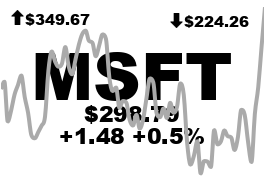
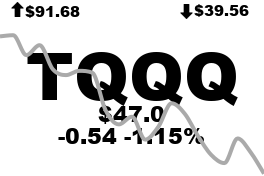
adding back the chart

diff --git a/lib/tick_obj.py b/lib/tick_obj.py
@@ -60,8 +60,9 @@ class TickObject:
     current_symbol_data = None
     directory_font = fontdir
     directory_img = imgsdir
-    def __init__(self) -> None:
-        if HAS_EPD:
+    debug = False
+    def __init__(self,symbols=None) -> None:
+        if HAS_EPD and symbols == None:
             # setup epd
             _epd = EPD()  # get the display
             self.screen_width = _epd.height
@@ -82,7 +83,11 @@ class TickObject:
 
         self.lg_font_size = int(self.screen_height/2)  # large font
         self.sm_font_size = int(self.screen_height/8)  # small font
-        self.symbols = self.get_tickers()
+        if symbols == None:
+            self.symbols = self.get_tickers()
+        else:
+            self.symbols = symbols
+            self.debug = True
     def get_symbol_data(self,symbol:str):
         self.current_symbol_data = get_symbol(symbol=symbol)
         return self.current_symbol_data
@@ -182,24 +187,27 @@ class TickObject:
         next_width = next_width + self.padding        
         d.text((next_width ,next_height-3), low, fill=self.color_text,  font=font)
         # create chart
-        # quickchart(
-        #     width=int(self.screen_width/2),
-        #     height=int(self.screen_height/2),
-        #     dataset=history["Open"],
-        #     background_clr=f"rgb({bg_clr},{bg_clr},{bg_clr})",
-        #     line_clr=f"rgb({chart_clr},{chart_clr},{chart_clr})",
-        #     saved_image_path=os.path.join(imgsdir, "chart.png"))
-        # # get chart image
-        # # flip this image since we want the powersource on the bottom
-        # chart = Image.open(os.path.join(imgsdir, "chart.png"))
+        quickchart(
+            width=int(self.screen_width/2),
+            height=int(self.screen_height/2),
+            dataset=history["Open"],
+            background_clr=f"rgb({bg_clr},{bg_clr},{bg_clr})",
+            line_clr=f"rgb({chart_clr},{chart_clr},{chart_clr})",
+            saved_image_path=os.path.join(imgsdir, "chart.png"))
+        # get chart image
+        # flip this image since we want the powersource on the bottom
+        chart = Image.open(os.path.join(imgsdir, "chart.png"))
         if self.rotate_img:
             # chart = chart.transpose(PIL.Image.ROTATE_180)
             im = back_im.transpose(PIL.Image.ROTATE_180)
         # chart.putalpha(65)
         back_im = im.copy()
-        # back_im.paste(chart,mask=chart)
+        back_im.paste(chart,mask=chart)
         
-        back_im.save(os.path.join(imgsdir, "quote.png"), quality=95)
+        if self.debug:
+            back_im.save(os.path.join(imgsdir, f"{symbol}.png"), quality=95)
+        else:
+            back_im.save(os.path.join(imgsdir, "quote.png"), quality=95)
 
         logging.info(f"Display quote {symbol}")
         if self.epd:

diff --git a/lib/tick.py b/lib/tick.py
@@ -1,5 +1,5 @@
 from .tick_obj import TickObject
 
 class Tick(TickObject):
-    def __init__(self) -> None:
-        super().__init__()
+    def __init__(self,symbols=None) -> None:
+        super().__init__(symbols=symbols)
